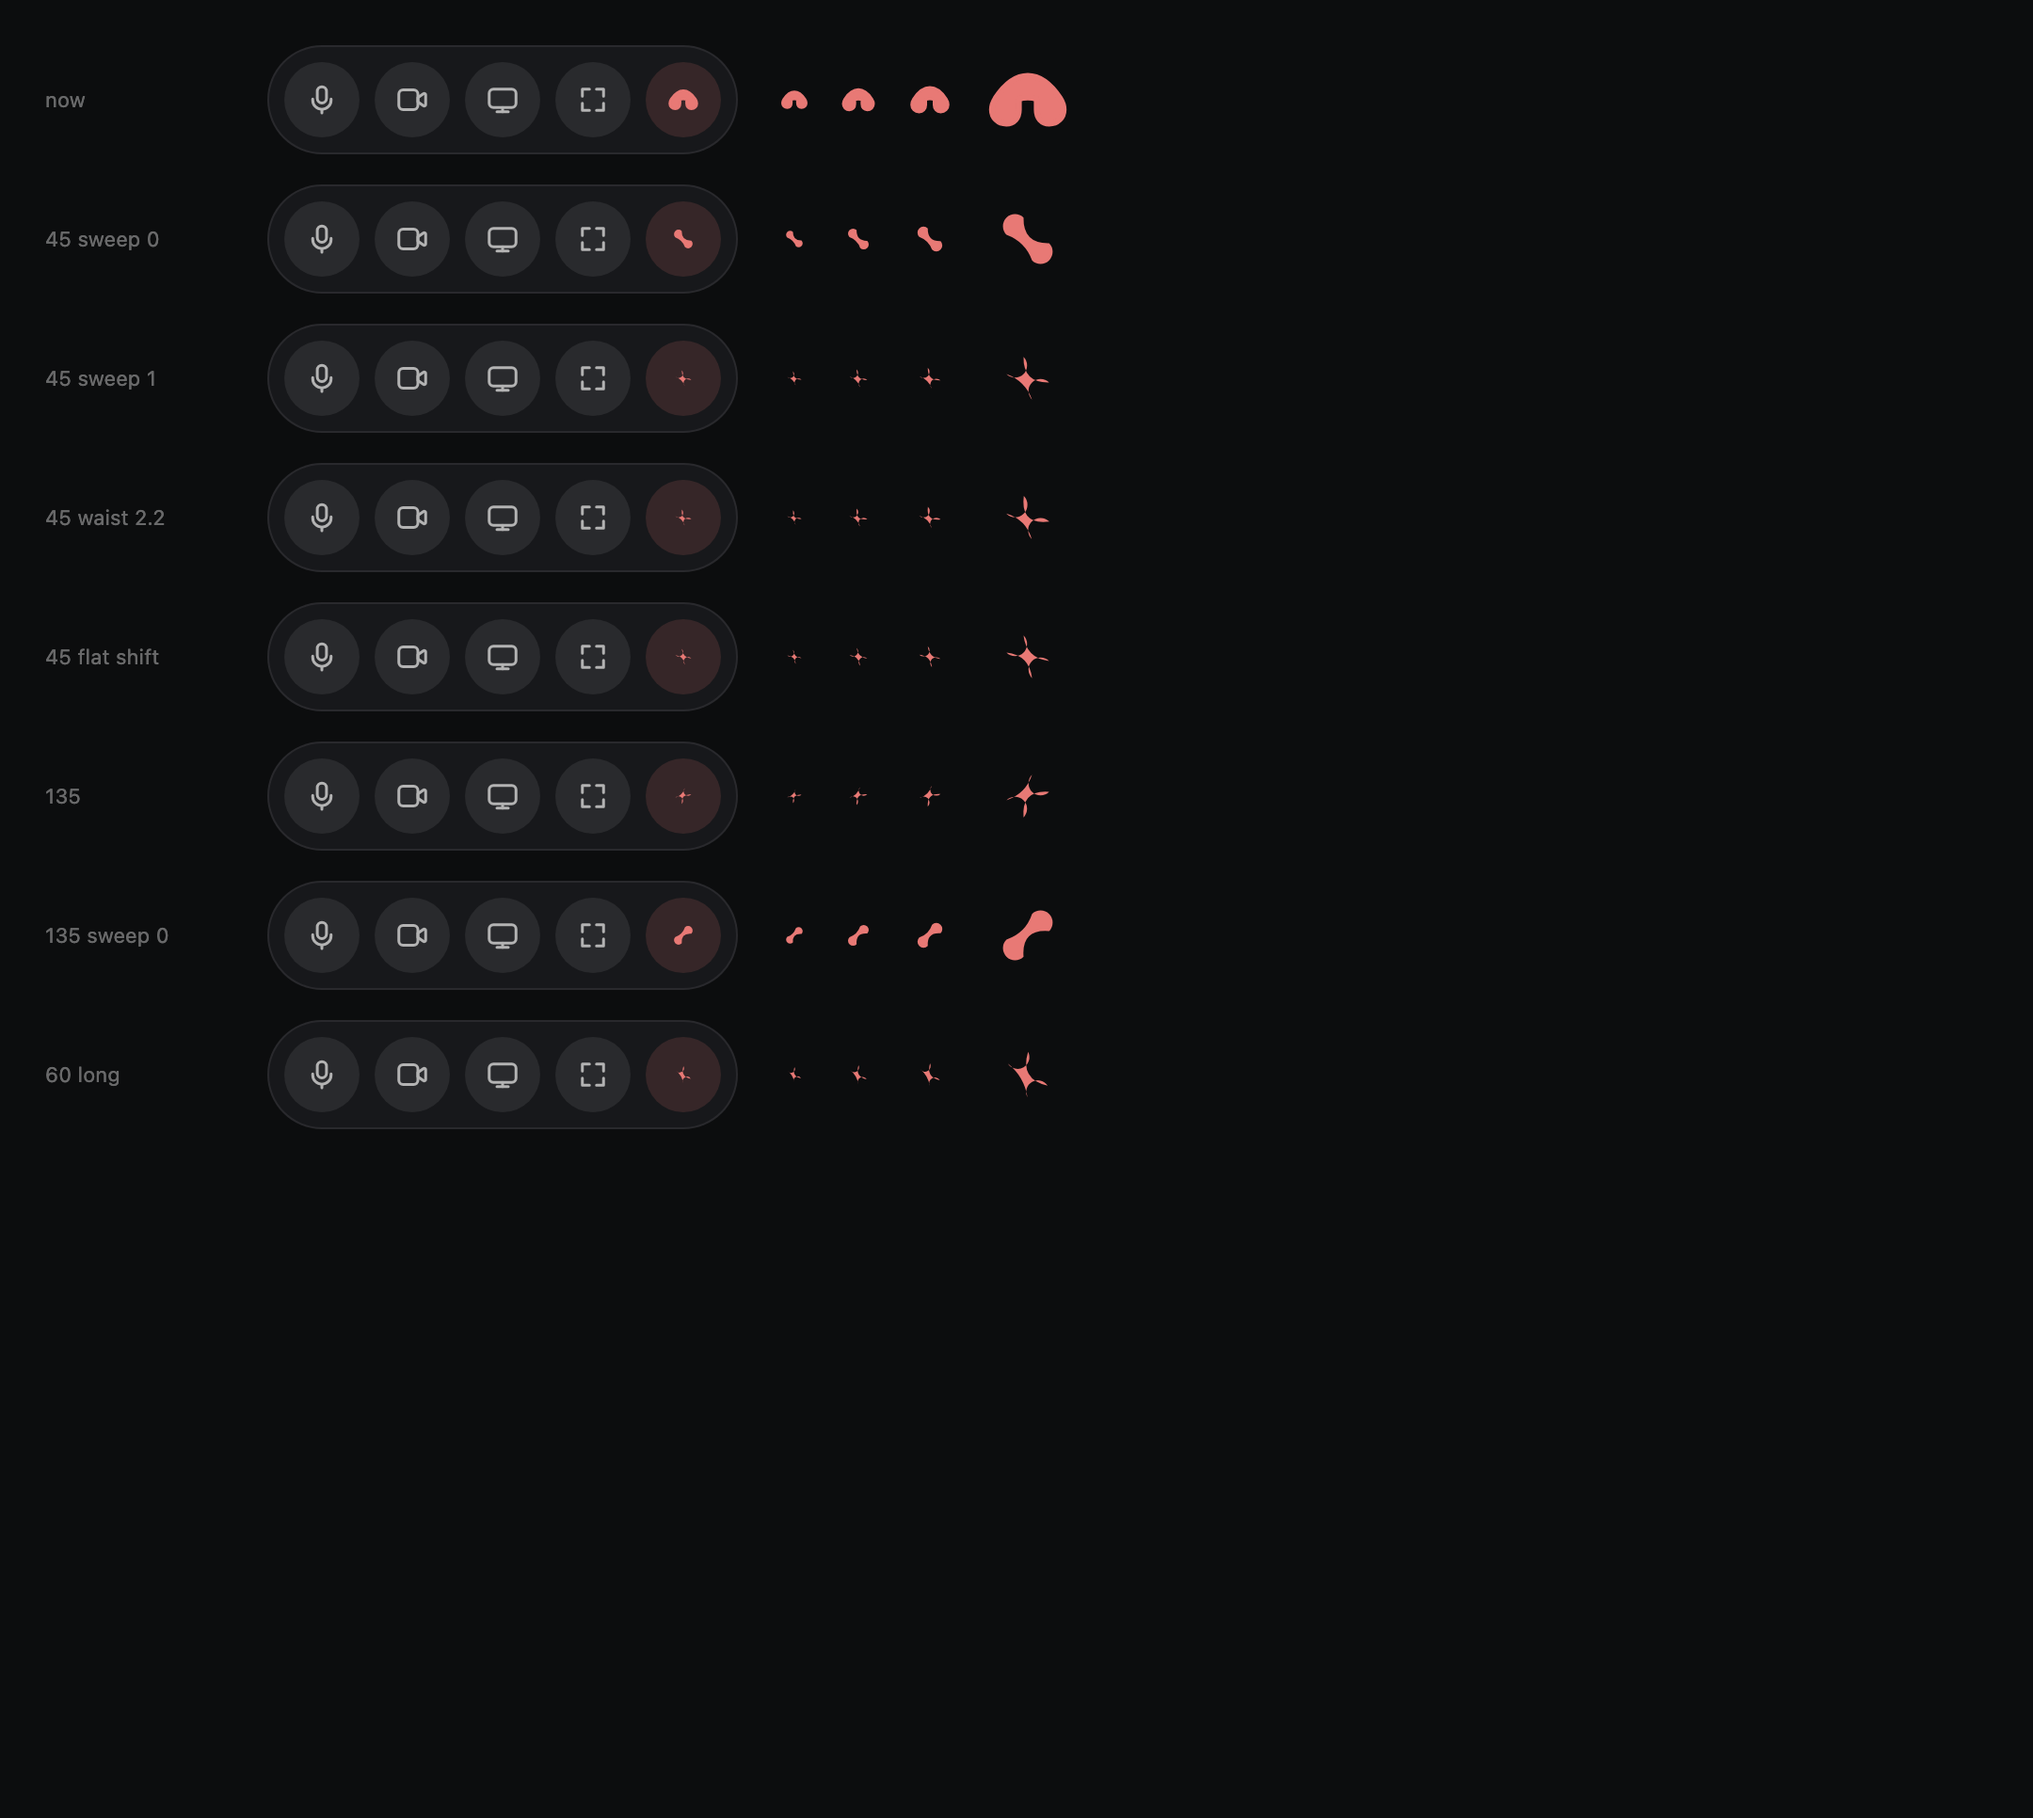
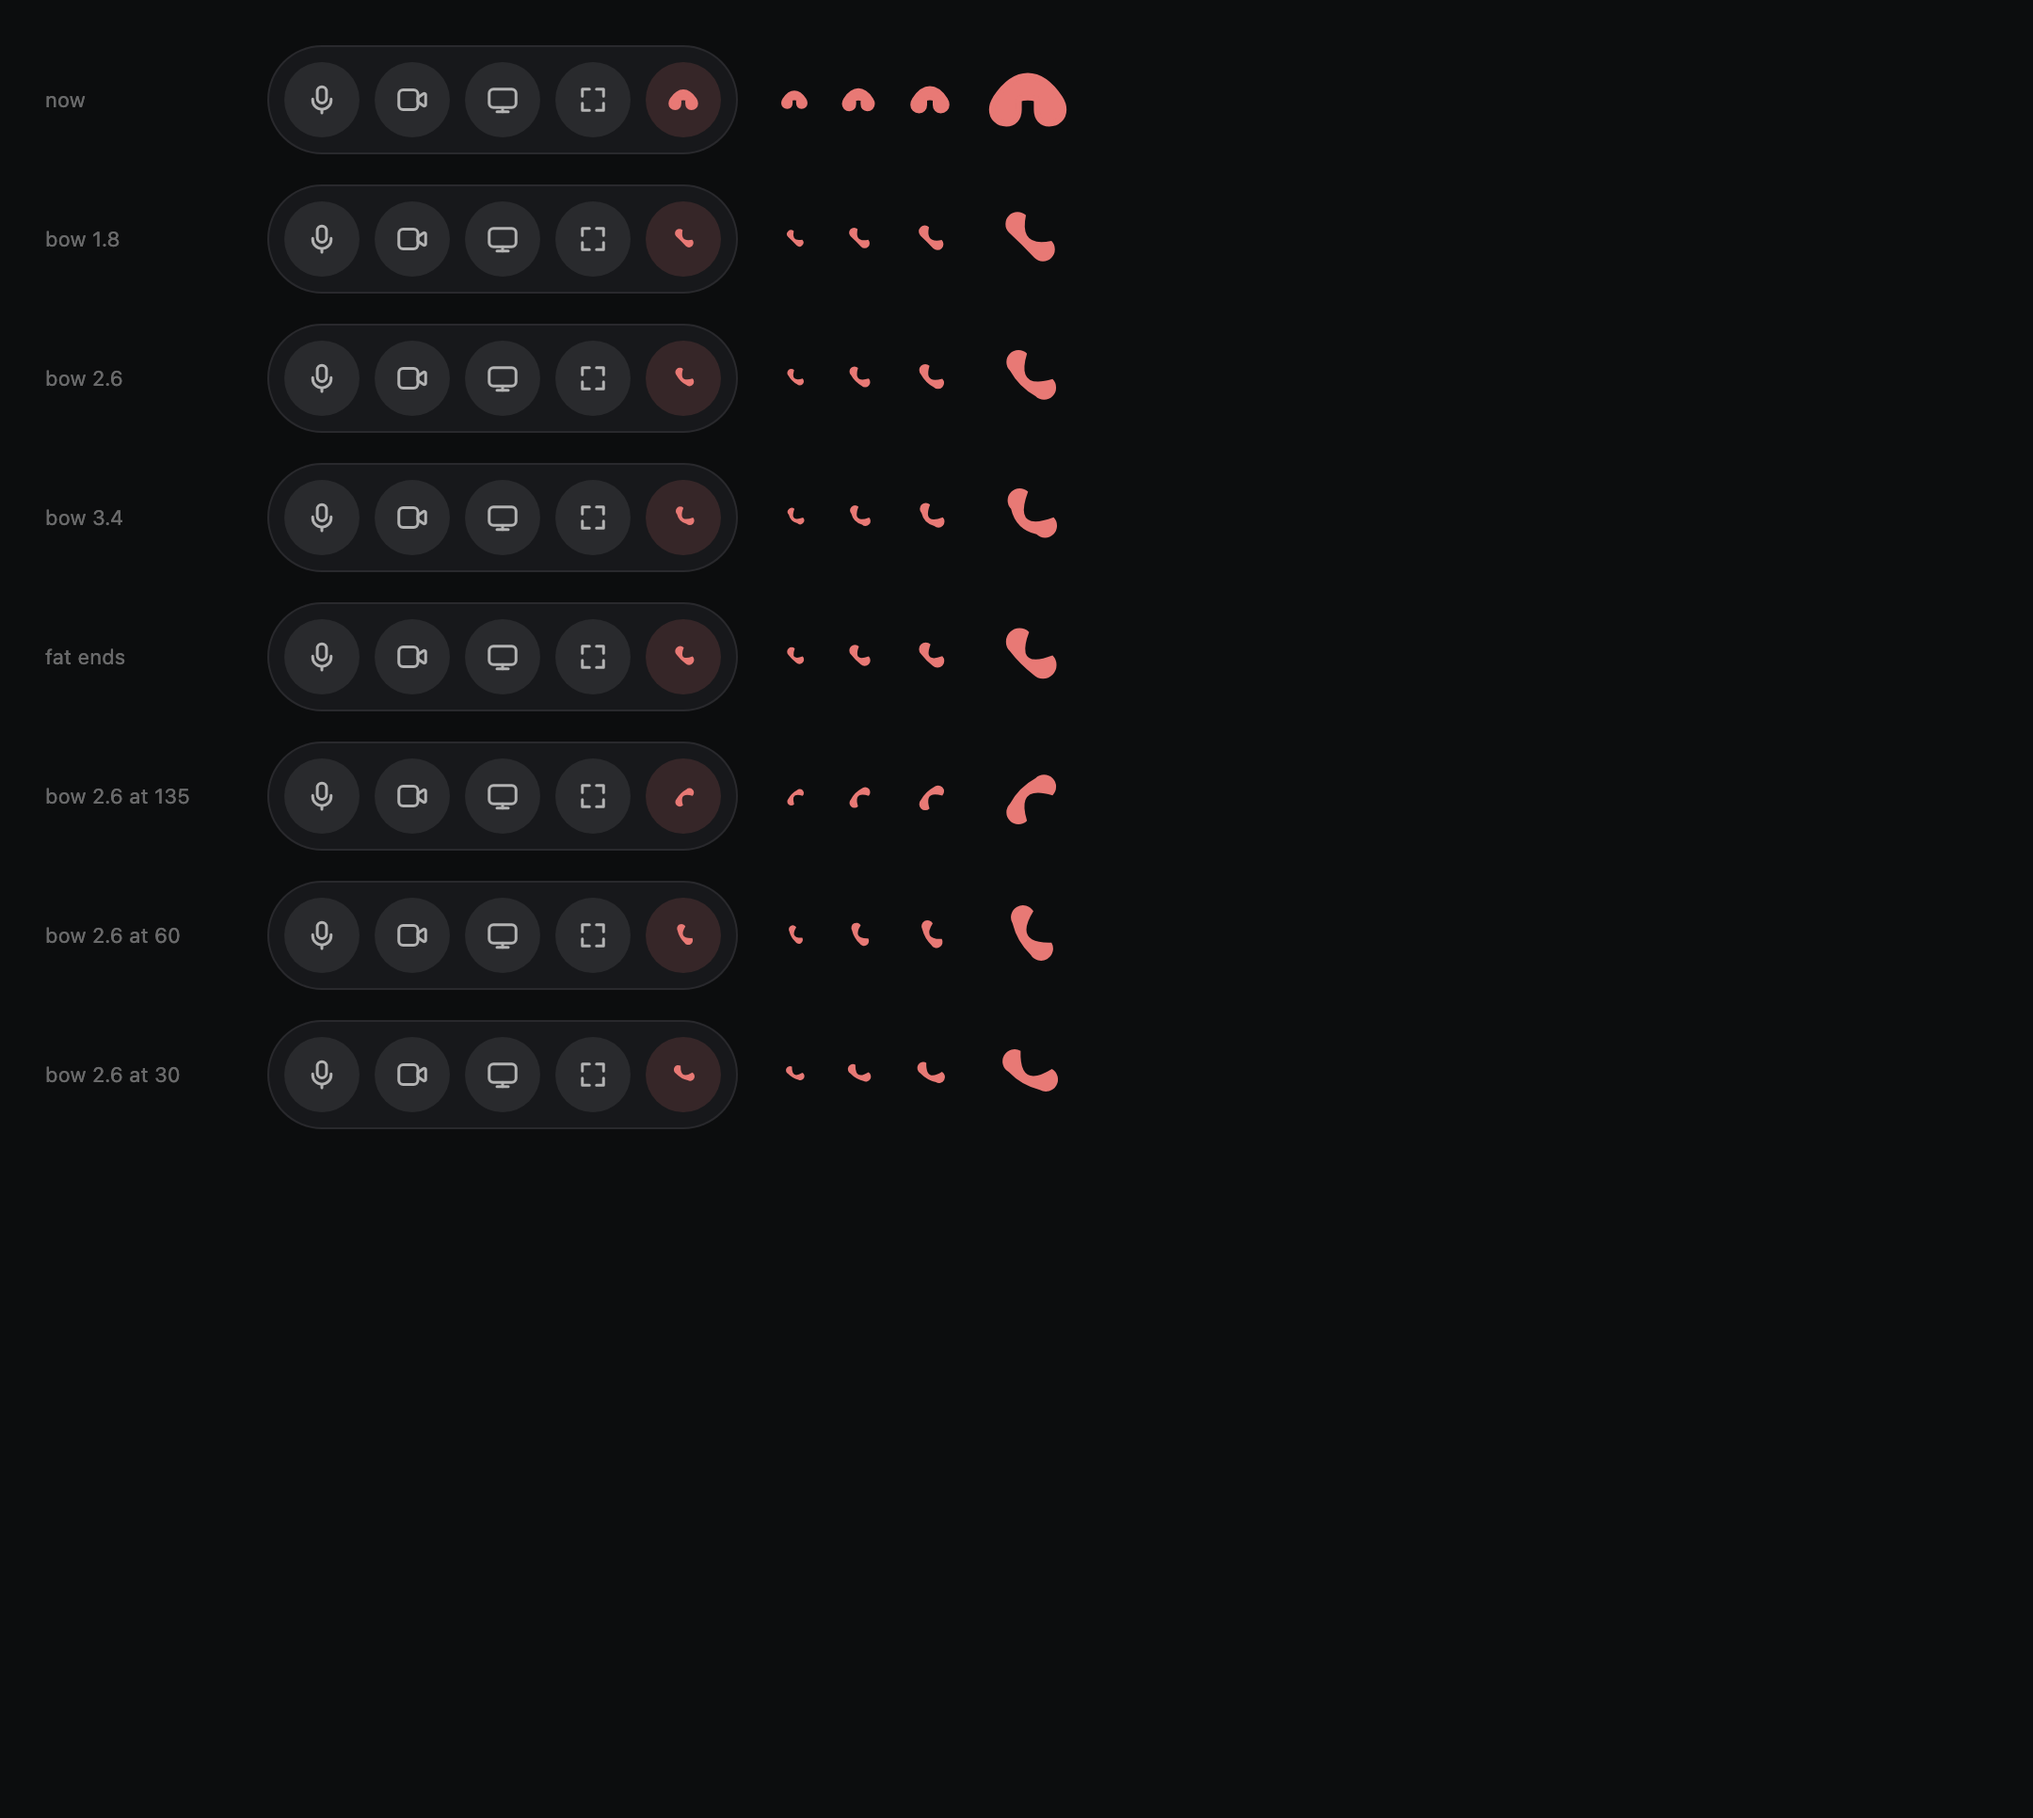
crew sync

diff --git a/scripts/.probe.tsx b/scripts/.probe.tsx
@@ -44,8 +44,8 @@ const handset = ({
   const P2 = at(A, 0, -r)
   const P3 = at(B, 0, -r)
   const P4 = at(B, 0, r)
-  const midOut = at([12, 12], 0, -(shift + waist / 2))
-  const midIn = at([12, 12], 0, waist / 2 - shift)
+  const midOut = at(middle, 0, -(shift + waist / 2))
+  const midIn = at(middle, 0, waist / 2 - shift)
   const control = (p: number[], q: number[], mid: number[]) => [
     2 * mid[0] - (p[0] + q[0]) / 2,
     2 * mid[1] - (q[1] + p[1]) / 2
